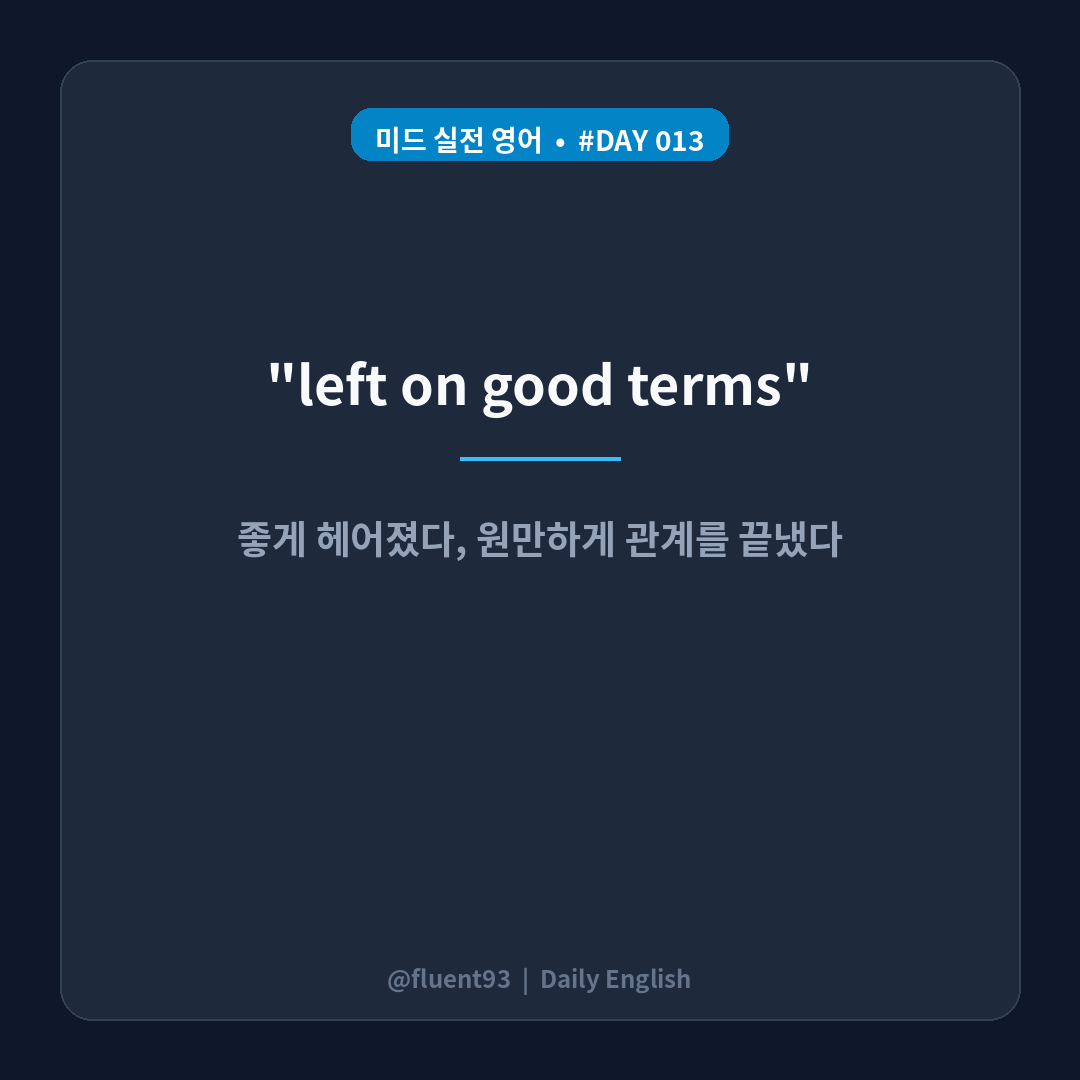
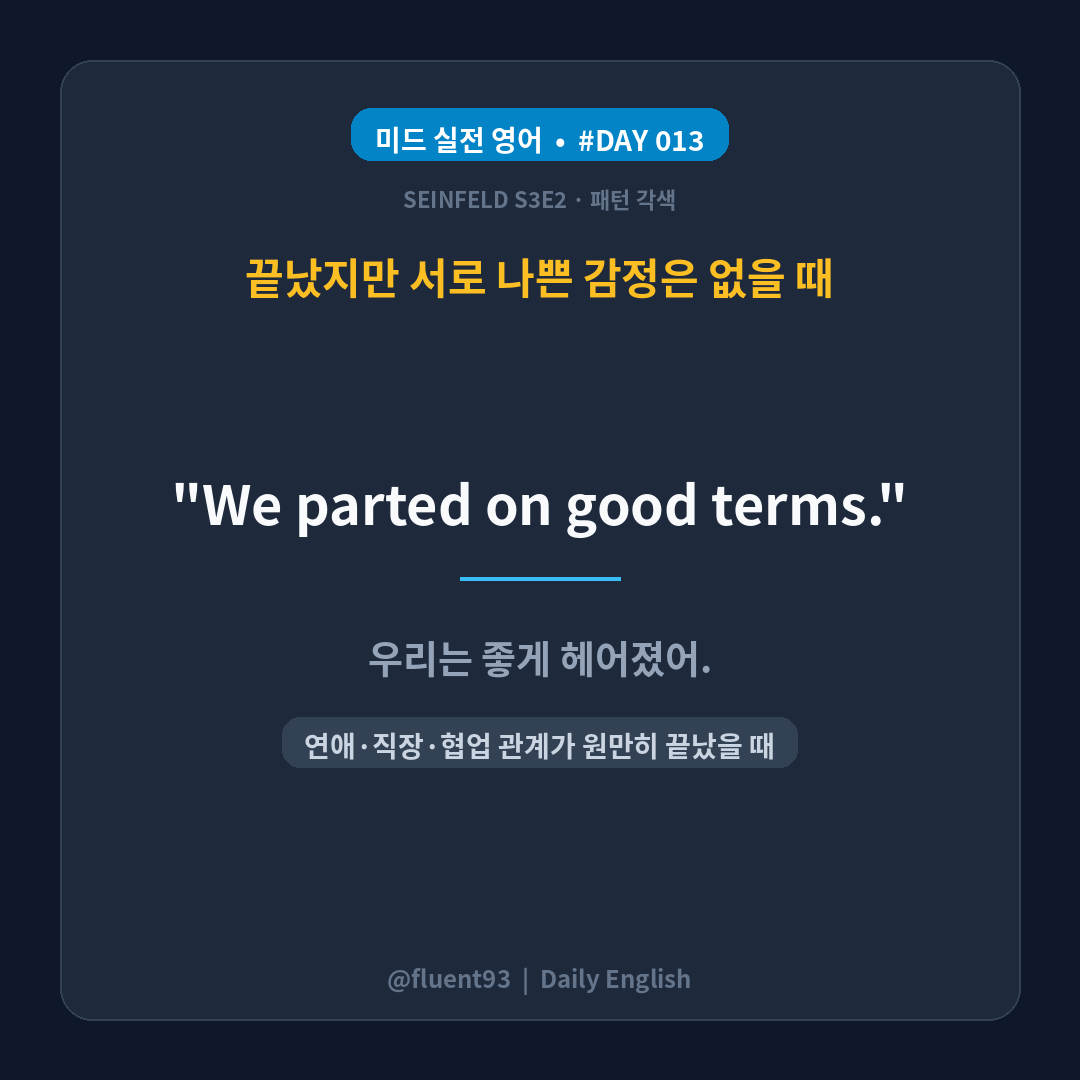
feat: upgrade first two weeks of English lessons

diff --git a/scripts/generate_card_images.py b/scripts/generate_card_images.py
@@ -52,6 +52,7 @@ def create_card_image(
     *,
     hook_ko: str = "",
     context_ko: str = "",
+    source_label: str = "",
 ):
     width, height = 1080, 1080
     img = Image.new("RGB", (width, height), color="#0F172A") # 딥 다크 네이비/차콜
@@ -64,6 +65,7 @@ def create_card_image(
     font_meaning = ImageFont.truetype(FONT_PATH, 38)
     font_hook = ImageFont.truetype(FONT_PATH, 42)
     font_context = ImageFont.truetype(FONT_PATH, 28)
+    font_source = ImageFont.truetype(FONT_PATH, 22)
     font_footer = ImageFont.truetype(FONT_PATH, 24)
 
     # 1. 내부 카드 프레임 (모던 글래스모피즘 느낌의 라운드 사각형)
@@ -87,6 +89,16 @@ def create_card_image(
         fill="#0284C7" # 스카이블루 포인트
     )
     draw.text((bx, by - 2), badge_text, font=font_badge, fill="#FFFFFF")
+
+    if source_label:
+        source_bbox = draw.textbbox((0, 0), source_label, font=font_source)
+        source_width = source_bbox[2] - source_bbox[0]
+        draw.text(
+            ((width - source_width) // 2, by + bh + 34),
+            source_label,
+            font=font_source,
+            fill="#64748B",
+        )
 
     # 획득형 카드는 먼저 사용 상황을 보여주고 표현을 보상으로 제시합니다.
     if hook_ko:
@@ -177,6 +189,7 @@ def generate_all():
         meaning = item.get("meaning_ko", "")
         hook = item.get("hook_ko", "")
         context = item.get("context_ko", "")
+        source_label = item.get("source_label", "")
         img_path = IMAGES_DIR / f"day_{day:03d}.png"
         create_card_image(
             day,
@@ -185,6 +198,7 @@ def generate_all():
             img_path,
             hook_ko=hook,
             context_ko=context,
+            source_label=source_label,
         )
 
     print(f"✅ 176개 카드뉴스 이미지 생성 완료! 위치: {IMAGES_DIR}")
